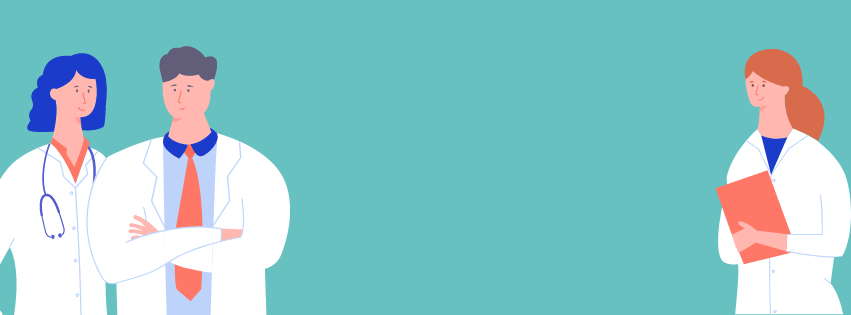
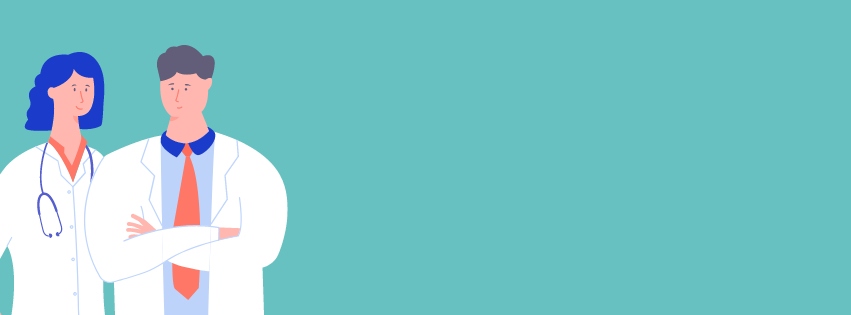
Add pre-design to Register

diff --git a/src/containers/Register/Register.jsx b/src/containers/Register/Register.jsx
@@ -8,10 +8,9 @@ import './Register.css'
 import {checkError} from '../../useful/Useful';
 import Input from '../../components/Input/Input';
 import Submit from '../../components/Submit/Submit';
-import primeraCitaGratis from '../../assets/Images/primeraCitaGratis.jpeg'
-import Navbar from '../../components/Navbar/Navbar';
-import Footer from '../../components/Footer/Footer';
-import Header from '../../components/Header/Header';
+import fondoRegister from '../../assets/Images/fondoRegister.jpeg';
+
+
 
 
 
@@ -89,13 +88,24 @@ const Register = () => {
   return (
     
     <div className="masterRegister">
-      <Header/>
-      <Navbar/>
-      <div className="centralDiv">
-        <div className="imagen">
-          <img className="insideImg"src={primeraCitaGratis} alt=""/>
+      <div className="containerLogin">
+      <img  className="imgStyleRegister"src={fondoRegister} alt=""/>
+      </div>
+        
         </div>
-        <div className="containerForm">
+        
+
+  )
+
+};
+
+// <div>{messageDate}</div>
+
+export default Register;
+
+
+/* 
+<div className="containerForm">
           <label>
             First Name:
           <Input type="text" maxLength="30" name="firstName" onChange={handleState}/>
@@ -124,14 +134,6 @@ const Register = () => {
           <div>{message}</div>
           <Submit title="Enviar" onClick={() => sendData()}/>
         </div>
-        {/* <div className="spaceColumnRegisterDown"></div> */}
-        </div>
-        <Footer/>
-      </div>
-  )
+      
 
-};
-
-// <div>{messageDate}</div>
-
-export default Register;
+*/

diff --git a/src/containers/Register/Register.css b/src/containers/Register/Register.css
@@ -6,65 +6,18 @@
   height: 100vmin;
 }
 
-.spaceColumnRegisterUp {
-  display: flex;
-  align-items: center;
-  justify-content: center;
-  flex-direction: column;
-  width: 100vmin;
-  height: 20vmin;
-}
-
-.spaceColumnRegisterDown {
-  display: flex;
-  align-items: center;
-  justify-content: center;
-  flex-direction: column;
-  width: 100vmin;
-  height: 30vmin;
-  border-radius: 10px;
-}
-
-.containerForm {
-  display: flex;
-  flex-direction: column;
-  justify-content: center;
-  align-items: center;
-  border: solid 2px black;
-  width:60vmin;
-  height: 25em;
-  margin-right: 3em;
-  border-radius: 5px;
-  box-shadow: 10px 10px 5px black;
-  background-color: rgb(249,249,250);
-
-}
-
-label {
-  margin: .5em;
-  margin-top: 1em;
-}
-
-.imagen {
+.containerLogin{
   display: flex;
   flex-direction: row;
   justify-content: center;
   align-items: center;
-
-  width: 50em;
-  height: 2em;
+  width: 90em;
+  height: 37em;
+  margin: 1em;
+  background-color: #67c1c1;
+  border-radius: 2em;
 }
 
-.centralDiv {
-  display: flex;
-  flex-direction: row;
-  justify-content: center;
-  align-items: center;
-  width: 100vmax;
-  height: 40em;
-}
-
-.insideImg {
-  width: 40em;
-  height: 25em;
+.imgStyleRegister {
+  margin-right: 36.8em;
 }

diff --git a/src/containers/Login/Login.css b/src/containers/Login/Login.css
@@ -39,6 +39,8 @@
     color: white;
     font-size: xx-large;
     font-family: 'Segoe UI', Tahoma, Geneva, Verdana, sans-serif; /* Poner Fuente de la IMG PIÑOS CLEAN */
+    border-top-left-radius: 1em;
+    border-top-right-radius: 1em;
 
 }
 
@@ -50,8 +52,8 @@
     justify-content: center;
     height: 30em;
     background-color: #f6f6f6;
-    border-bottom-left-radius: 1em;
-    border-bottom-right-radius: 1em;
+    border-bottom-left-radius: 1.5em;
+    border-bottom-right-radius: 1.5em;
 
 }
 
